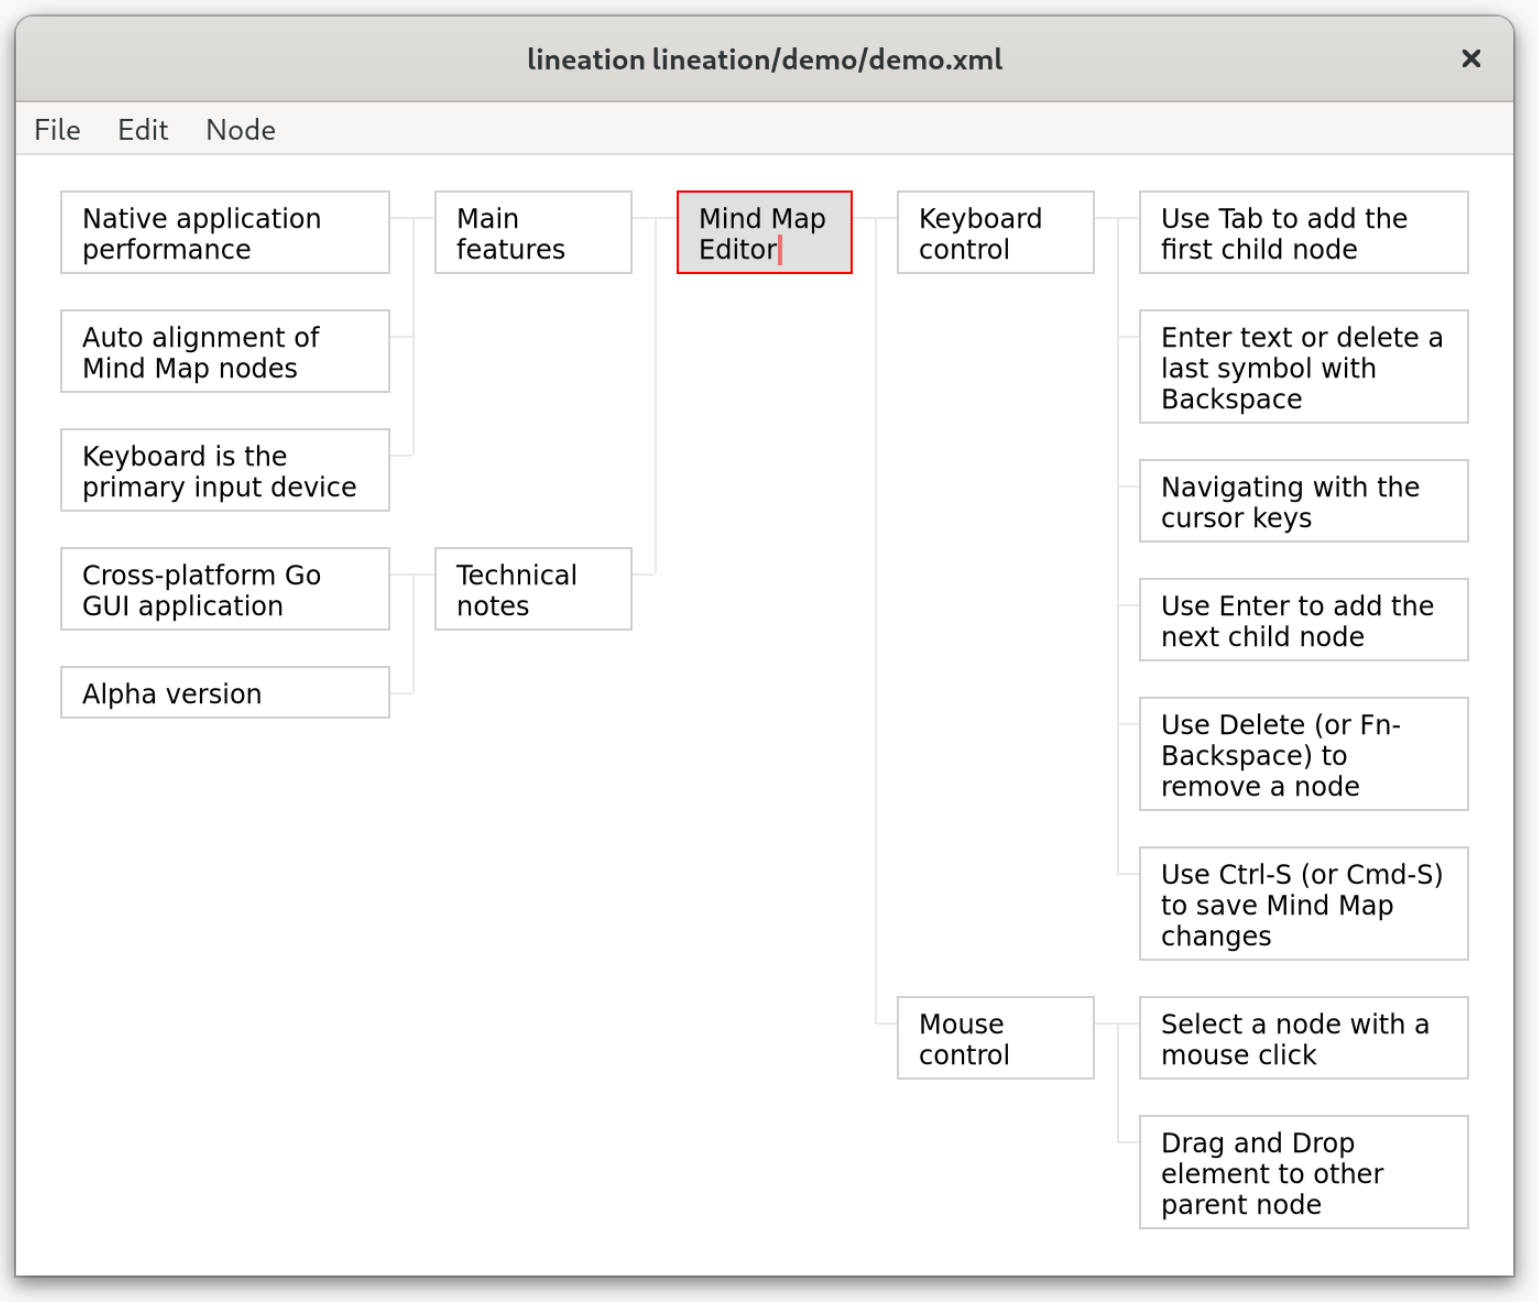
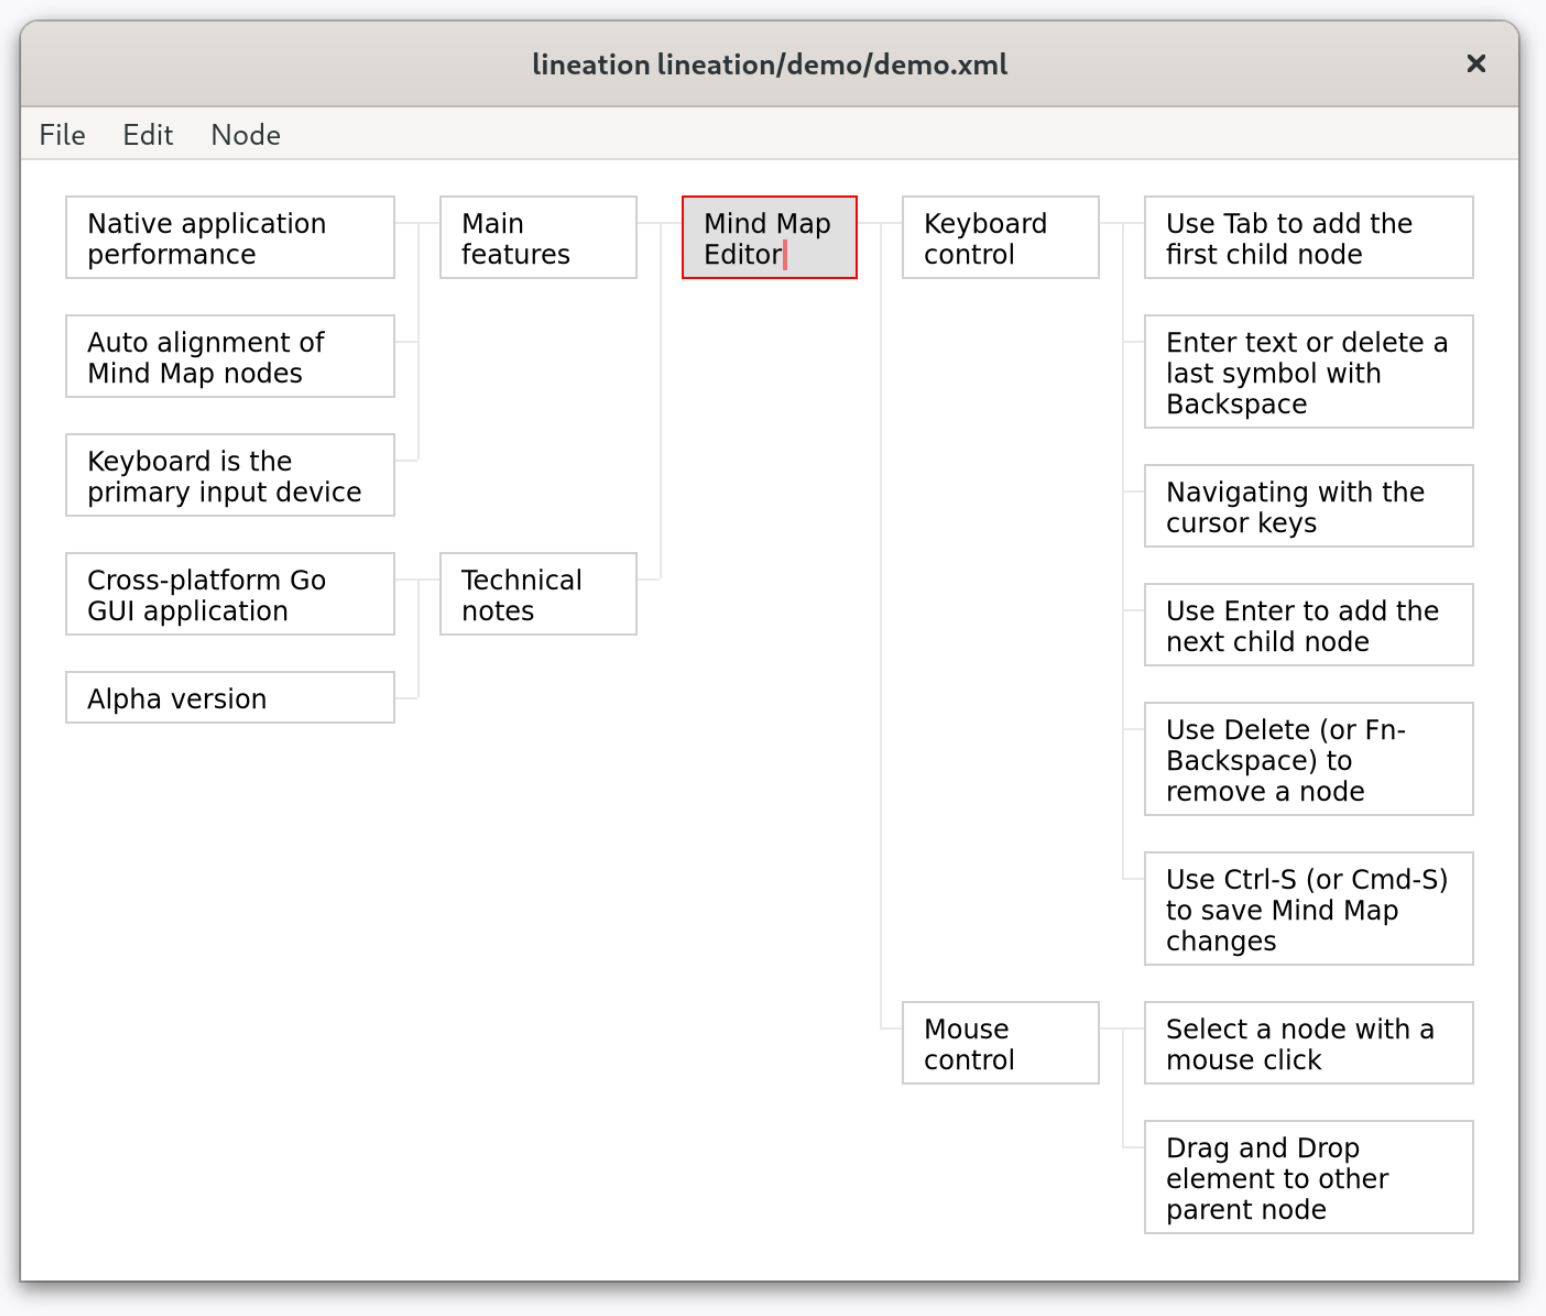
Update docs

diff --git a/impress/it-driver.html b/impress/it-driver.html
@@ -323,7 +323,7 @@ a:hover {
     
 <h1>Overview</h1>
 <p>The impress library uses a separate application to low-level drawing.</p>
-<img src="https://codeation.github.io/images/it_scheme.png" width="580" height="274" />
+<p><img src="https://codeation.github.io/images/it_scheme.png" width="580" height="274" /></p>
 <p>The main GUI application contains pure Go code. There is not any low-level library required to build the main application. The impress terminal is running in parallel. Impress terminal was written in C and used the GTK library. Named pipes are used to communicate between the main application and impress terminal.</p>
 <p>Impress terminal started and stopped by main application. By default, executable impress terminal binary launched from main application directory or working directory. The environment variable <code>IMPRESS_TERMINAL_PATH</code> may be used to specify full pathname to impress terminal binary.</p>
 <p>Pros:</p>

diff --git a/index.html b/index.html
@@ -335,7 +335,7 @@ a:hover {
 <p>GTK cross-platform terminal <a href="https://github.com/codeation/it">github.com/codeation/it</a></p>
 <p>WebAssembly terminal <a href="https://github.com/codeation/canvas">github.com/codeation/canvas</a></p>
 <h1>lineation mindmap application</h1>
-<p><img src="https://codeation.github.io/images/lineation_demo_2.png" width="769" height="651" /></p>
+<p><img src="https://codeation.github.io/images/lineation_demo_2.png" width="773" height="658" /></p>
 <p>lineation is an open-source Mind Map Editor. In addition, it is a impress GUI library proof-of-concept application.</p>
 <p><strong>Documentation</strong></p>
 <p><a href="https://codeation.github.io/lineation/">lineation home</a></p>

diff --git a/lineation/index.html b/lineation/index.html
@@ -322,8 +322,8 @@ a:hover {
 <h1 class="title">lineation. Mind Map Editor</h1>
     
 <h1>Screenshots</h1>
-<img src="https://codeation.github.io/images/lineation_demo_2.png" width="769" height="651" />
-<img src="https://codeation.github.io/images/lineation_save_as.png" width="709" height="353" />
+<p><img src="https://codeation.github.io/images/lineation_demo_2.png" width="773" height="658" /></p>
+<p><img src="https://codeation.github.io/images/lineation_save_as.png" width="716" height="358" /></p>
 <h1>Alpha Version</h1>
 <p>Notes:</p>
 <ul>

diff --git a/impress/canvas-driver.html b/impress/canvas-driver.html
@@ -330,7 +330,7 @@ a:hover {
 <li>Periodically launched application with a graphical interface without installation on computer.</li>
 </ul>
 <h1>Hello world</h1>
-<img src="https://codeation.github.io/images/canvas_small.png" width="675" height="445" />
+<p><img src="https://codeation.github.io/images/canvas_small.png" width="675" height="445" /></p>
 <p>Source:</p>
 <pre><code>package main
 

diff --git a/impress/hello-world.html b/impress/hello-world.html
@@ -322,7 +322,7 @@ a:hover {
 <h1 class="title">Hello World Example</h1>
     
 <h1>Let's say hello</h1>
-<img src="https://codeation.github.io/images/hello_small.png" width="545" height="350" />
+<p><img src="https://codeation.github.io/images/hello_small.png" width="545" height="350" /></p>
 <pre><code>package main
 
 import (
